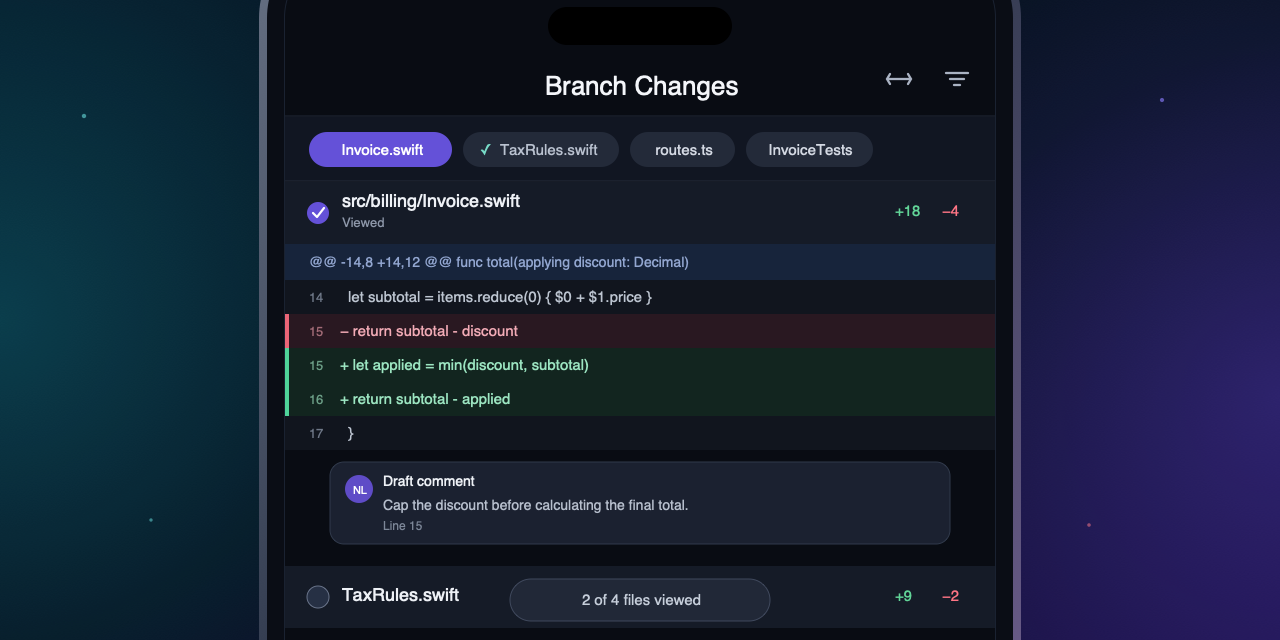
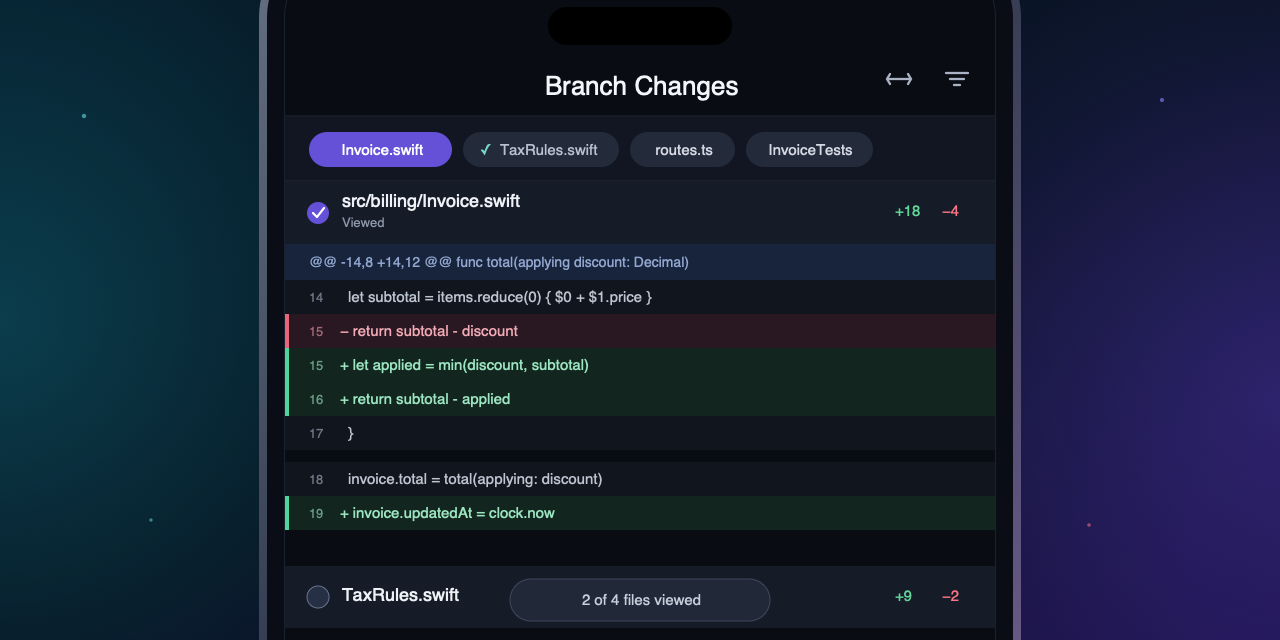
chore(release): correct 0.24.6 notes and media

Changed region(s): [[0.2188, 0.7188, 0.7812, 0.875]]

diff --git a/CHANGELOG.md b/CHANGELOG.md
@@ -24,9 +24,10 @@ adheres to [Semantic Versioning](https://semver.org/spec/v2.0.0.html).
 - Read, reply to, resolve, and reopen GitHub or GitLab review threads from iPhone when the provider and signed-in account allow it ([#2661](https://github.com/mrmans0n/alas/pull/2661)).
 - Submit eligible pull or merge request reviews from iPhone with comments, approvals, or change requests ([#2665](https://github.com/mrmans0n/alas/pull/2665)).
 - Review a change in one continuous scroll on iPhone and iPad, with a file strip, sticky headers, viewed marks, folding, and lazy-loaded diffs ([#2669](https://github.com/mrmans0n/alas/pull/2669)).
+- Comment on a line or range while reviewing local changes on iPhone and iPad, using tap or drag selection, with comments shown beneath their lines ([#2674](https://github.com/mrmans0n/alas/pull/2674)).
 - Render `chart` fences natively on Mac, iPhone, and iPad, with bar, horizontal-bar, and line charts plus values on hover or tap ([#2671](https://github.com/mrmans0n/alas/pull/2671), [#2673](https://github.com/mrmans0n/alas/pull/2673)).
 - Render GitHub-style notes, tips, and warnings as native transcript alerts on Mac, iPhone, and iPad ([#2667](https://github.com/mrmans0n/alas/pull/2667)).
-- Show a finished turn's file changes and line totals beneath its answer on Mac, iPhone, and iPad, with optional on-device captions on supported Macs ([#2670](https://github.com/mrmans0n/alas/pull/2670), [#2672](https://github.com/mrmans0n/alas/pull/2672)).
+- After a finished turn makes two or more edits, show its files and line totals beneath the answer on Mac, iPhone, and iPad, with optional on-device captions on supported Macs ([#2670](https://github.com/mrmans0n/alas/pull/2670), [#2672](https://github.com/mrmans0n/alas/pull/2672)).
 - Keep suggested prompts in a compact inline Use pill that leaves more room for iPhone and iPad composer controls ([#2660](https://github.com/mrmans0n/alas/pull/2660)).
 
 ### 🐛 Fixes

diff --git a/Mobile/TestFlight/WhatToTest/0.24.6.md b/Mobile/TestFlight/WhatToTest/0.24.6.md
@@ -1,1 +1,1 @@
-On iPhone or iPad, review several files in one continuous scroll, use the file strip, mark files as viewed, and switch between wrapped and horizontally scrolling diffs. In a pull or merge request review, try loading threads, replying or resolving where allowed, and submitting a comment, approval, or request for changes. Also check that visual and chart fences render inline in transcripts, chart values appear when tapped, and GitHub-style alerts use native styling.
+On iPhone or iPad, review several files in one continuous scroll, use the file strip, mark files as viewed, and switch between wrapped and horizontally scrolling diffs. While reviewing Local Changes, select a line or range by tapping or dragging and leave a comment. In a pull or merge request review, try loading threads, replying or resolving where allowed, and submitting a comment, approval, or request for changes. Also check that visual and chart fences render inline in transcripts, chart values appear when tapped, and GitHub-style alerts use native styling.
